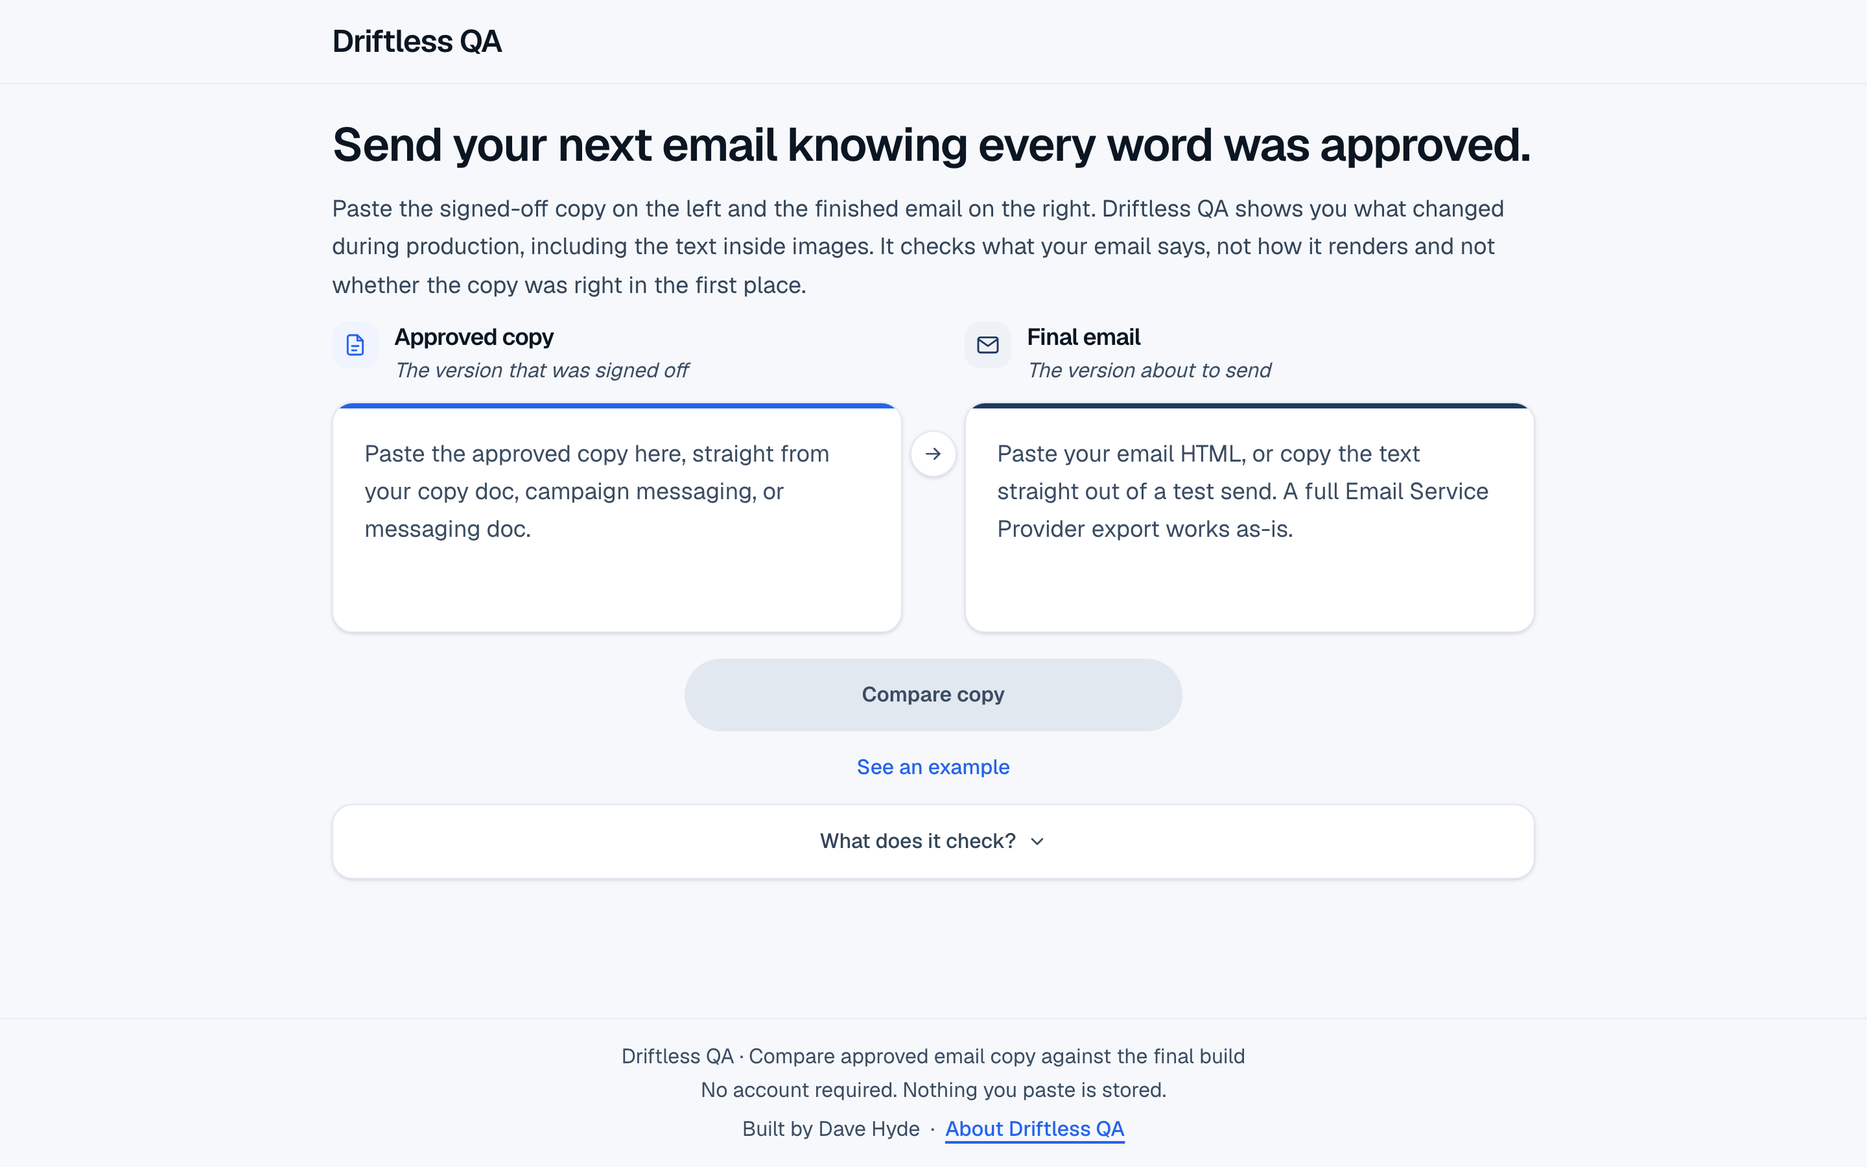
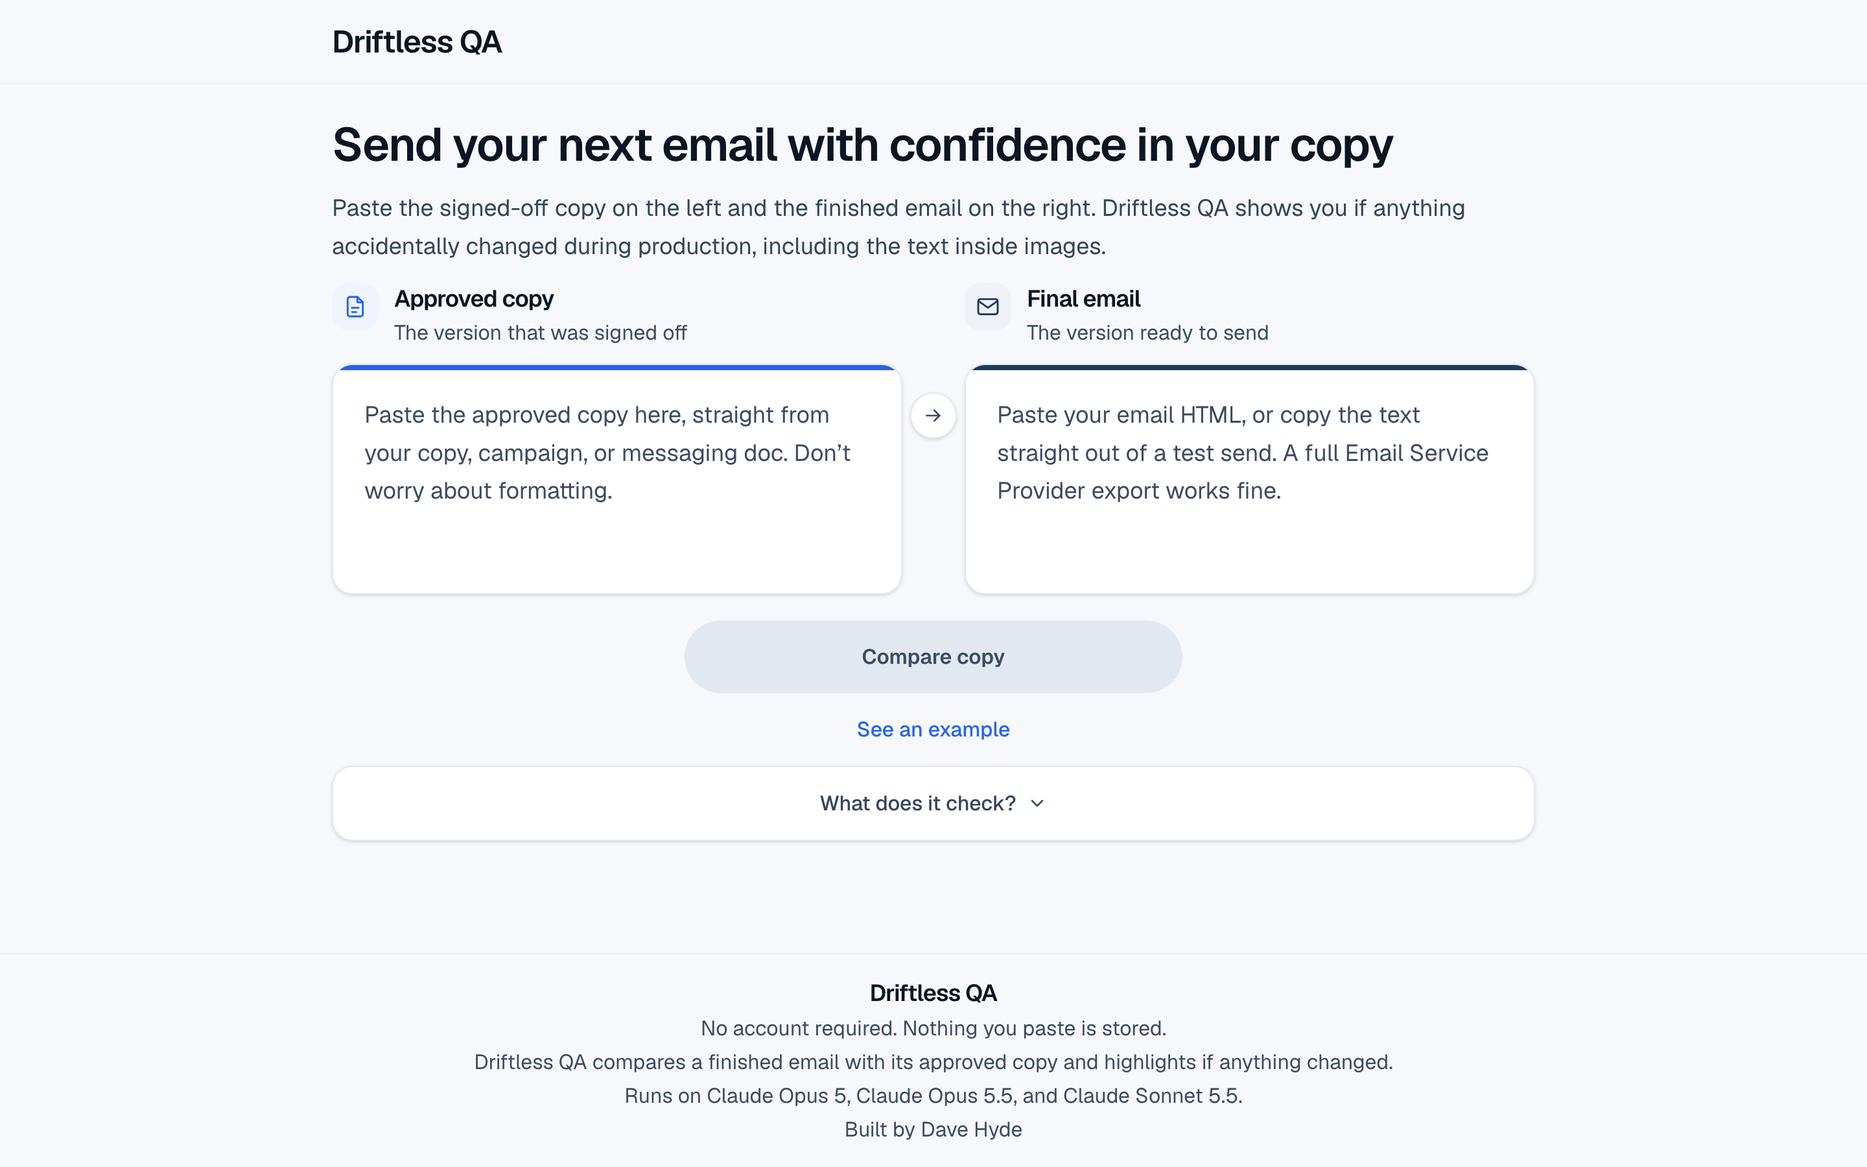
Update the showcase to match the live app

diff --git a/README.md b/README.md
@@ -2,46 +2,31 @@
 
 **Live app: [driftlessqa.com](https://driftlessqa.com)**
 
-A web app that compares approved email copy against the email that actually got built, and reports
-what changed during production.
+Driftless QA checks a finished marketing email against the copy that was approved for it, and reports anything that changed along the way. You paste the approved copy on one side and the final email on the other, and it lists each difference with a short explanation.
 
-It **compares. It does not proofread.** If the approved copy has a typo and the final email
-reproduces it exactly, that passes.
+It compares. It does not proofread. If the approved copy has a typo and the final email repeats it exactly, that passes.
 
-> This repository is a showcase. It documents the architecture and engineering decisions behind
-> Driftless QA. The application source is in a private repository.
+This repository is a showcase of how the app is built and why. The application code is in a private repository.
 
-![The input screen: two boxes, approved copy on the left and the final email on the right](docs/input.png)
+![The input screen, with the approved copy box on the left and the final email box on the right](docs/input.png)
 
-Paste the approved copy on the left and the final email on the right. The right box takes a full
-ESP HTML export or plain text copied out of a test send.
+The left box takes the approved copy, pasted from a copy doc. The right box takes the email's HTML, or the text copied out of a test send.
 
-![Results: a red banner reading "5 differences need review", followed by finding cards comparing approved and final text side by side](docs/results.png)
+![Results: a red banner reading "5 differences need review", followed by cards comparing the approved and final text side by side](docs/results.png)
 
-Each finding shows the approved text against what the email actually says, with a one-line
-explanation of the difference. Only failures drive the verdict at the top.
+Each card shows the approved text next to what the email actually says, with a one-line explanation. Only failures count toward the verdict at the top.
 
----
+## Why it exists
 
-## The problem
+Email QA tools like Litmus and Email on Acid check rendering, links, accessibility and deliverability. None of them check whether the final email says what the approved copy said.
 
-Email QA platforms — Litmus, Email on Acid — are good at rendering, links, accessibility and
-deliverability. None of them answer a more basic question: **does the final email actually say what
-the approved copy said?**
+Copy changes during production. It gets moved from a copy doc into an email builder, edited late and reviewed by several people, and small changes still get through: a changed price, last month's offer, a button that lost its capitalization, a paragraph that was dropped. Once an email is sent, it can't be unsent. Driftless QA does that one check.
 
-Copy drifts during production. It moves from a copy doc into a template builder, gets edited late,
-and small changes survive to send past several rounds of human review: a changed price, last
-month's offer, a CTA that lost its capitalization, a paragraph quietly dropped. Once it sends,
-there is no unsending it.
+## How it works
 
-Driftless QA does that one check.
+Most of the comparison is ordinary code. It strips the HTML down to the visible text, sets aside things that aren't copy (such as the unsubscribe footer), and smooths over differences that don't matter, like curly versus straight quotes. Then it works out which part of the email each piece of approved copy became, compares the two word by word, and decides what kind of difference each one is and how serious it is.
 
----
-
-## Architecture
-
-The comparison is a nine-step pipeline. The deterministic core runs first and produces every
-verdict; two AI steps are layered on top and are strictly additive.
+AI is used in three places, each for a job ordinary code does badly: matching a heavily reworded paragraph to the approved version it came from, reading text that is part of an image, and writing the one-line explanation on each finding. The diagram shows the full pipeline for technical readers.
 
 ```
   PASTED INPUT
@@ -83,150 +68,77 @@ verdict; two AI steps are layered on top and are strictly additive.
                     PASS / FAIL / WARNING
 ```
 
-Images are handled on a parallel path: reachable `<img>` sources are fetched server-side and read
-in one batched vision call, so copy baked into a hero JPEG is not a blind spot.
+Images are handled alongside the main comparison. The server fetches each image in the email and reads all of them in one AI call, so copy inside a hero image gets checked too.
 
----
+## Two rules the design follows
 
-## The two rules
+**The AI suggests matches, and code makes every decision.** The AI may suggest which part of the email a piece of approved copy turned into. It never decides whether anything passes or fails. Every verdict comes from fixed rules in code. The matching prompt only asks which piece goes with which, and never asks what changed. That keeps the app away from the main problem with pasting two documents into a chatbot and asking for the differences, which is that a model will confidently describe differences that aren't there.
 
-Every design decision in the project resolves to one of these.
+**When the app isn't sure, it says so.** If the app can't tell with confidence which part of the email a block of approved copy became, it doesn't compare the block against a guess. It shows a warning instead. Warnings never turn the result red, and only failures do. A false warning costs the reader a few seconds, but a red result on a correct email would make every later green result harder to trust.
 
-### 1. The model proposes. Code decides.
+## Where AI is used
 
-A model is allowed to suggest *which approved block corresponds to which part of the email*. It is
-never allowed to return a pass or a fail. Every verdict is computed by deterministic code from the
-pairings it was given.
+| Step | How | Model | Why |
+|---|---|---|---|
+| Extracting and cleaning the text | Code | None | Mechanical and exactly specifiable. A model would add cost, delay and inconsistency for no benefit. |
+| Matching copy, first pass | Code (string similarity) | None | Handles clean, labeled copy on its own, so that kind of comparison never needs the AI step below it. |
+| Matching copy that was heavily rewritten | AI, structured output | Claude Opus 5.5 | Only sees what the first pass couldn't place. A reworded paragraph defeats string matching but is obvious to a person. |
+| Reading text inside images | AI, vision | Claude Opus 5 | Text inside artwork is invisible to every other check. Image findings are capped at warnings, because reading an image is never certain enough to fail an email. |
+| Pass and fail | Code, always | None | See the first rule above. |
+| Explaining each finding | AI, one call per comparison | Claude Sonnet 5.5 | The one step where the writing is the point. Falls back to plain built-in sentences if the call fails. |
 
-The tier-2 prompt asks only "which of these goes with which," and explicitly refuses to ask what
-changed or whether it matters. That separation is the guardrail against the main failure mode of
-simply pasting both documents into a chat window and asking — a model will confidently narrate
-differences that are not there.
+Every AI step is allowed to fail without breaking the app. When a call fails, the job tries a backup model first. If that fails too, the comparison still finishes and returns what the ordinary code produced.
 
-The practical consequence: **the same two documents always produce the same answer.**
+## Choosing and testing the models
 
-### 2. Never diff a pair you aren't confident about.
+The three AI jobs use different models because each job was tested on its own. The app's end-to-end test set can't tell models apart on these jobs, so a separate benchmark measures them directly: 31 generated images with known text (including typos baked into the artwork and hard cases like script fonts, faint text and letter-spaced capitals), 16 matching cases with 64 decisions that each have one right answer, and 19 real findings whose explanations are read side by side. Every model runs every job three times.
 
-If alignment cannot confidently determine which part of the email a block became, the app says so
-instead of comparing it against the wrong thing. That surfaces as a dismissable warning rather than
-a failure.
+A few results shaped the current setup. In September, Claude Haiku 4.5 read the typo "Limted" in an image as "Limited", at 99% confidence, on every run. It scored well overall, but it silently fixed the exact kind of mistake the image check exists to catch. The newest model wasn't the best choice for every job either. Claude Opus 5.5 read every test image correctly, but it rated its confidence on the hardest ones at exactly the app's 80% cutoff, where a small drop would make the app throw a correct reading away. So image reading stayed on Claude Opus 5.
 
-Only failures drive the verdict at the top of the results. Warnings never do. That split is
-deliberate: a false warning costs the user a few seconds, but a red banner on a correct email makes
-every green result after it harder to believe.
+The benchmark also tests each model at low, medium and high thinking levels, and more thinking wasn't always better. For image reading on Opus 5, high fixed a misread that low made twice in three runs, where it read letter-spaced capitals as "L I M I T E D". On Opus 5.5 the same change lowered its confidence until it started discarding correct readings. Each job's level is now set from these results: high for image reading, and medium for matching and explanations. Explanations moved to Claude Sonnet 5.5, which wrote them as accurately as Opus, about a second faster per call, at 40% of the price.
 
----
+Anthropic's status page showed problems affecting these models every week or two during September, usually for one to three hours, and most of them hit a single model. So each job has a backup on a different model:
 
-## Where AI is used, and where it deliberately isn't
-
-| Step | Approach | Why |
+| Job | Main model | Backup |
 |---|---|---|
-| Extraction, normalization, dedupe | Deterministic | Mechanical and exactly specifiable. A model here adds cost, latency and nondeterminism for nothing. |
-| Alignment tier 1 | Deterministic (Levenshtein, token overlap, containment) | Resolves clean labeled input completely. On those inputs **no model call happens at all** — the comparison is instant and free. |
-| Alignment tier 2 | Model, structured output | Only receives what tier 1 could not place. Heavy rewrites defeat string similarity but are obvious to a reader. |
-| Reading text inside images | Vision model, confidence-gated | Text baked into artwork is invisible to every other check. Capped at Warning — extraction confidence doesn't support a hard verdict. |
-| Verdicts | **Deterministic, always** | See rule 1. |
-| Finding explanations | Model, one batched call | The only genuinely generative step. Replaced hand-written templates. |
+| Matching rewritten copy | Claude Opus 5.5 | Claude Opus 5 |
+| Reading text inside images | Claude Opus 5 | Claude Sonnet 5.5 |
+| Explaining findings | Claude Sonnet 5.5 | Claude Opus 5 |
 
-**Both AI steps are allowed to fail.** If the API key is absent, the prepaid balance is exhausted,
-or a call errors, the pipeline returns exactly what the deterministic core alone would have
-returned. The app is complete and useful without either.
+Each AI call gives up after 45 seconds and moves to the backup, instead of waiting the default ten minutes. The limit comes from timing deliberately oversized jobs, where the slowest call took 28 seconds. The backups were tested against the real API by pointing each job at a model name that doesn't exist, and each backup took over in about three seconds. The site's footer lists the models in use, and it is generated from the same settings the app runs on, so it updates whenever a model changes.
 
----
+## Other engineering decisions
 
-## Engineering decisions worth calling out
+**Thresholds come from tests.** The score that decides whether two pieces of text are the same block started as a guess of 0.90. Testing it against the full set of example emails showed every pair that should match scoring 0.91 or higher and every pair that shouldn't scoring 0.75 or lower. The threshold is set at 0.85, in the middle of that gap, instead of at 0.90, right at the edge where a slightly reworded paragraph would stop matching.
 
-**Thresholds were tuned against an eval set, not by feel.** The tier-1 alignment threshold began at
-a guessed 0.90. Sweeping it against the fixture set showed every pair that must match scoring ≥ 0.91
-and every pair that must not scoring ≤ 0.75 — a usable band of roughly (0.75, 0.91), with a cliff at
-0.92 where a paragraph reworded just short of the line stops matching and one honest wording failure
-becomes two wrong findings. The value sits near the centre of the band rather than on the edge of
-the cliff.
+**Fetching images is treated as a security risk.** The app accepts HTML from anyone, pulls image addresses out of it, and fetches them from its own server. That is a classic way to trick a server into reaching places it shouldn't, known as server-side request forgery. Every fetch is checked: the address has to be public (checked after looking up where the name actually points), redirects aren't followed, and only real images under 5 MB are accepted, within a time limit. A rejected fetch fails silently, because a detailed error message would help someone probe the server.
 
-**Models were chosen per job, by measurement.** The three AI jobs are configured independently
-because they were benchmarked independently, three runs each, after the shared eval set proved
-unable to separate them. The vision benchmark was decisive: on artwork with typos deliberately baked
-in, one candidate model read `Limted` as `Limited` and `Shiping` as `Shipping` at 0.99 confidence on
-every run — silently repairing the exact defect the step exists to catch. A cheaper model can score well
-overall and still be wrong about the one thing you picked it for.
+**The limits are described as they are.** Rate limiting allows 50 comparisons per IP address per hour. It runs in memory, so each server instance keeps its own count, and anyone determined could get around it. It is there to stop accidental loops, and nothing more. A shared database would make it airtight, and that was judged not worth it for an app of this size.
 
-**Fetching user-supplied image URLs is treated as a security boundary.** The app accepts arbitrary
-HTML from anonymous users, extracts URLs from it, and has the server fetch them — textbook SSRF
-exposure. Requests are validated on scheme, hostname, resolved IP (private and link-local ranges
-rejected after DNS resolution, not before), redirect behaviour, content type, response size and a
-hard timeout. Rejections are silent: a descriptive error message is a free probing tool for an
-attacker.
+**Speed was measured with a profiler.** Matching takes about 96% of the time on a large comparison, and its cost depends on how much text is left after the HTML is stripped. Real email exports are mostly markup. One measured template had 2.5 KB of copy inside 108 KB of HTML, so even 400 KB of HTML compares in about 24 milliseconds.
 
-**Limits are documented honestly rather than oversold.** Rate limiting is in-memory and therefore
-per-serverless-instance — it stops casual looping and runaway client code, and nothing more. The
-real spend ceiling is a prepaid balance with auto-reload off. Adding a database to make the limit
-rigorous was explicitly judged not worth it at this scale, and the reasoning is recorded next to the
-code rather than left for someone to rediscover.
-
-**Performance was profiled, not guessed.** Alignment is O(blocks × runs) with a Levenshtein per
-pair and accounts for ~96% of wall time on a large comparison. Cost tracks what survives extraction,
-so the HTML path is cheap at any size — 400 KB of markup compares in ~24 ms, because a real ESP
-export is overwhelmingly markup (one measured template carried 2.5 KB of copy under 108 KB of
-Outlook hacks and inline CSS).
-
----
-
-## Testing and evaluation
+## Testing
 
 | | |
 |---|---|
-| Unit tests | **291**, across 14 suites |
-| Eval fixtures | **28** end-to-end email pairs — 14 clean, 14 with a planted defect |
-| Current eval score | **14/14 defects caught, at the correct severity, 0 false positives** |
+| Unit tests | 305, in 15 test files |
+| End-to-end test set | 28 pairs of approved copy and final email: 14 that should pass and 14 with a planted mistake |
+| Score with AI | All 14 mistakes caught at the right severity, no false alarms, and 28 of 28 verdicts correct |
+| Score without AI | 13 of 14 mistakes caught, with 2 false alarms |
+| Model benchmark | 31 images, 64 matching decisions and 19 explanations, three runs per model |
 
-The eval set catches behaviour that unit tests can't express. Each fixture is a realistic
-approved-copy / final-email pair with a known expected outcome, covering clean cases that must stay
-clean (smart quotes, responsive duplicates, MJML wrappers, repeated CTAs,
-boilerplate footers) and defects that must be caught at the right level (changed wording, dropped
-sentences, injected paragraphs, reordered sections, capitalization drift).
-
-It grades **severity as well as detection**: flagging a real problem at the wrong level counts
-against the score. No threshold in the codebase changes without running it.
-
----
+The end-to-end set checks severity as well as detection, so catching a real problem at the wrong level counts against the score. No threshold in the code changes without running it. The scores above were measured on October 6, 2026.
 
 ## Tech stack
 
-**Application**
-- Next.js 16 (App Router, Server Components), React 19, TypeScript (strict)
-- Tailwind CSS v4
-- Deployed on Vercel, custom domain, automatic deploys from `main`
+The app is built with Next.js 16, React 19, TypeScript in strict mode and Tailwind CSS 4, and it is hosted on Vercel with automatic deploys from the main branch. It calls Claude through Anthropic's official TypeScript SDK, with Zod schemas so each model returns typed data instead of prose that has to be parsed. The comparison engine is plain TypeScript made of pure functions, with no dependencies beyond an HTML parser, and it is tested with Node's built-in test runner.
 
-**AI**
-- Anthropic API via the official TypeScript SDK
-- Zod schemas for structured model output — the model returns typed pairings and readings, not prose
-  to be parsed
-- Per-job model configuration, overridable by environment variable with no code change
-
-**Engine**
-- Pure TypeScript, no runtime dependencies beyond an HTML parser
-- Every module in the comparison core is composed of pure functions, which is what makes 291 unit
-  tests cheap to write and fast to run
-- Node's built-in test runner — no test framework dependency
-
-**Security & operations**
-- All model calls server-side; the API key never reaches the browser, the repo, or a log line
-- SSRF-hardened image fetching (see above)
-- Optional password gate: HMAC-signed session cookie, key derived from the password, expiry carried
-  in the cookie and signed over. Off by default; enabling it is one environment variable and no code
-  change
-- In-memory per-IP rate limiting with a documented, honest threat model
-- Nothing pasted by a user is stored anywhere
-
----
+All AI calls happen on the server, and the API key never reaches the browser, the code repository or the logs. Nothing a user pastes is stored. An optional password gate, using a signed session cookie, can be switched on with one setting and no code change.
 
 ## How this was built
 
-Driftless QA was built with [Claude Code](https://claude.com/claude-code), Anthropic's agentic
-coding tool, and this README was written with it too. The architecture, the product boundaries and
-the engineering decisions recorded above were mine to direct and review; a large share of the
-implementation was written by the model working to them.
+Driftless QA was built with [Claude Code](https://claude.com/claude-code), Anthropic's AI coding tool. Dave Hyde directed the project and made the final decisions, and Claude wrote the code.
 
----
+This README was written by Claude Opus 5.5 in Claude Code, from the project's own notes and a fresh run of its tests. Dave did not write or edit it.
 
-Built by **Dave Hyde** · [driftlessqa.com](https://driftlessqa.com) · [About the project](https://driftlessqa.com/about)
+Built by **Dave Hyde** · [driftlessqa.com](https://driftlessqa.com)
